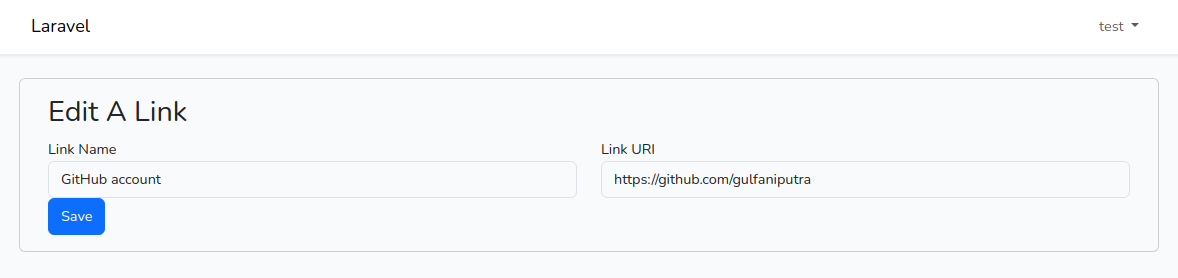
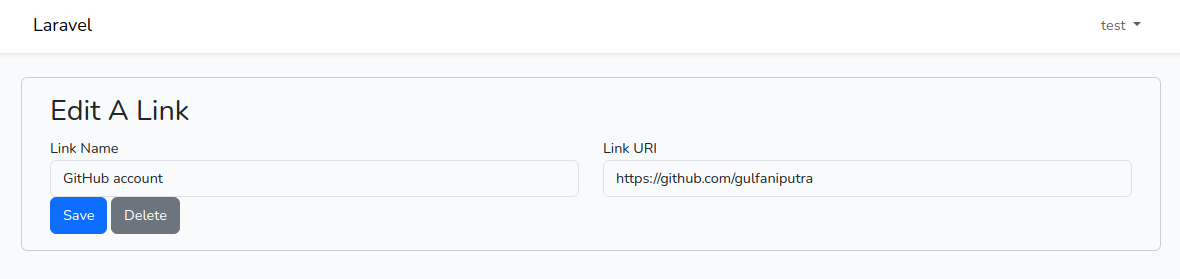
Add 'Delete' then configure its view & controller

diff --git a/resources/views/links/edit.blade.php b/resources/views/links/edit.blade.php
@@ -35,8 +35,14 @@
                         <div class="col-12">
                             @csrf
                             <button type="submit" class="btn btn-primary">Save</button>
+                            <button type="button" class="btn btn-secondary"
+                                onclick="event.preventDefault(); document.getElementById('delete-form').submit();">Delete</button>
                         </div>
                     </div>
+                </form>
+                <form action="/dashboard/links/{{ $link->id }}" method="post" id="delete-form">
+                    @csrf
+                    @method('DELETE')
                 </form>
             </div>
         </div>

diff --git a/app/Http/Controllers/LinkController.php b/app/Http/Controllers/LinkController.php
@@ -67,5 +67,12 @@ class LinkController extends Controller
 
     public function destroy(Request $request, Link $link)
     {
+        if ($link->user_id !== Auth::id()) {
+            return abort(403);
+        }
+
+        $link->delete();
+
+        return redirect()->to('/dashboard/links');
     }
 }
